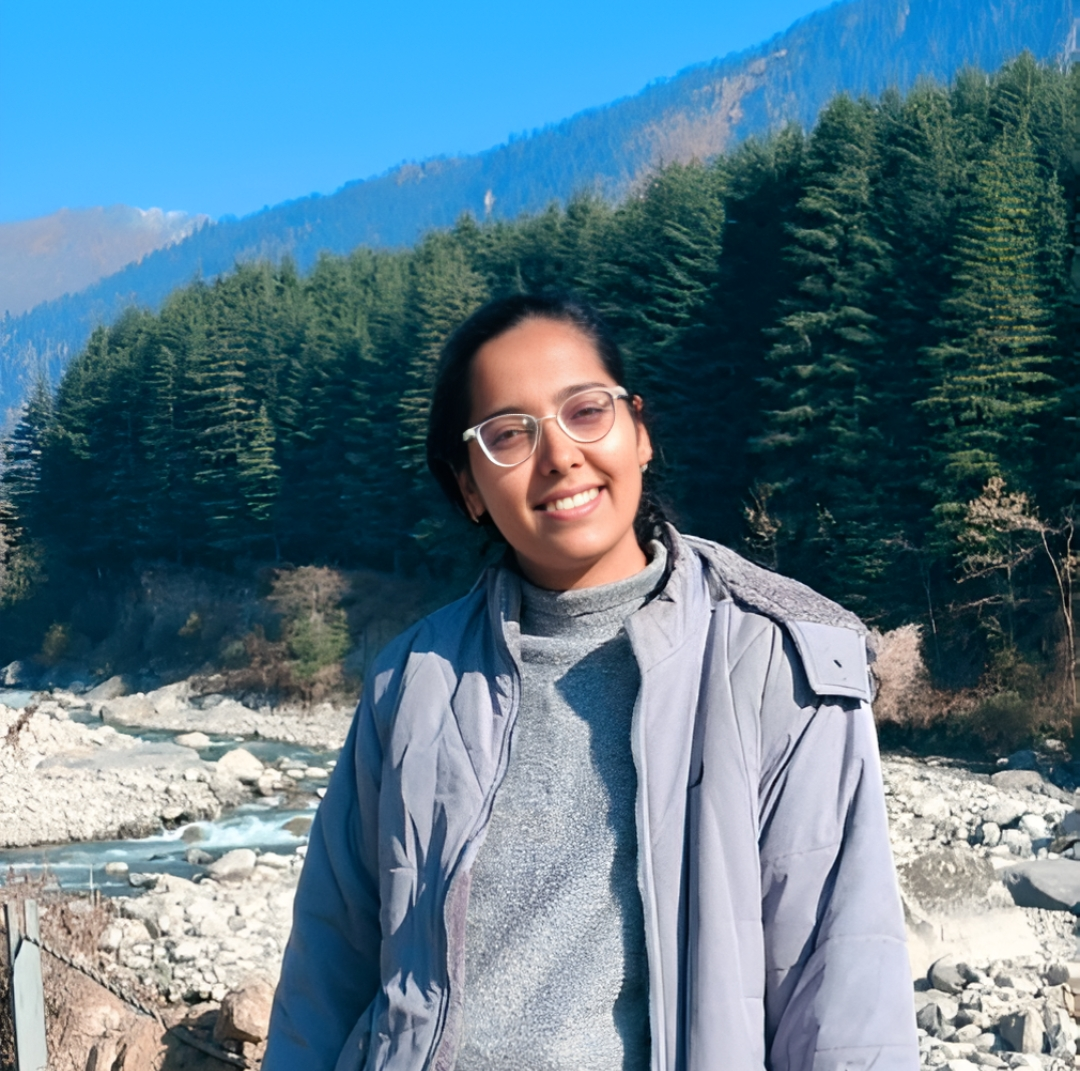
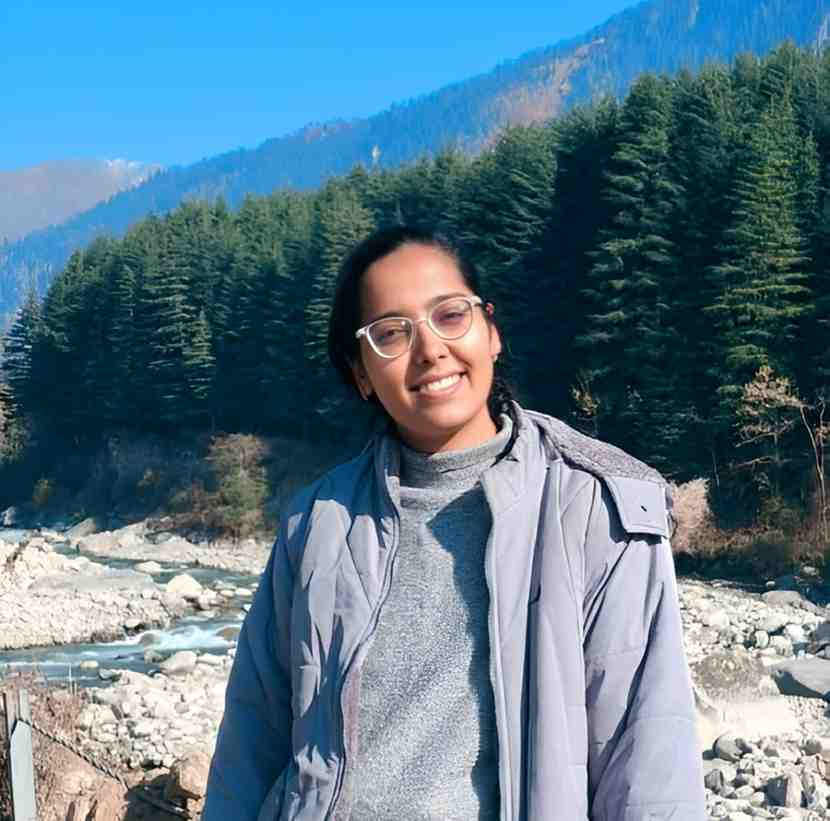
images size decreased

diff --git a/index.html b/index.html
@@ -868,7 +868,7 @@
         <div class="bgrid service-item animate-this">
           <div class="profile-card">
             <div class="profile-img">
-              <img data-src="./images/profile/AnujAgrawal3.jpeg" style="height: 24rem; width: 24.5rem; object-fit: cover"
+              <img data-src="./images/profile/AnujAgrawal3 (1).jpeg" style="height: 24rem; width: 24.5rem; object-fit: cover"
                 alt="Team Image" class="lazyload" />
             </div>
             <div class="profile-content">
@@ -890,7 +890,7 @@
         <div class="bgrid service-item animate-this">
           <div class="profile-card">
             <div class="profile-img">
-              <img data-src="./images/profile/AryanM.jpeg" style="height: 24rem; width: 24rem; object-fit: cover"
+              <img data-src="./images/profile/AryanM (1).jpeg" style="height: 24rem; width: 24rem; object-fit: cover"
                 alt="Team Image" class="lazyload" />
             </div>
             <div class="profile-content">
@@ -929,7 +929,7 @@
         <div class="bgrid service-item animate-this">
           <div class="profile-card">
             <div class="profile-img">
-              <img data-src="./images/profile/KalpakAgrawal4.png" style="height: 25rem; width: 24rem; object-fit: cover"
+              <img data-src="./images/profile/Kalpak_Agrawal (2).webp" style="height: 25rem; width: 24rem; object-fit: cover"
                 alt="Team Image" class="lazyload" />
             </div>
             <!-- <div class="profile-img">
@@ -971,7 +971,7 @@
         <div class="bgrid service-item animate-this" style="margin-bottom: 27px">
           <div class="profile-card">
             <div class="profile-img">
-              <img data-src="./images/profile/Himanshu_Events.jpg" style="height: 25rem; width: 24rem; object-fit: cover"
+              <img data-src="./images/profile/Himanshu_Events (1).jpg" style="height: 25rem; width: 24rem; object-fit: cover"
                 alt="Team Image" class="lazyload" />
             </div>
             <div class="profile-content">
@@ -1002,7 +1002,7 @@
         <div class="bgrid service-item animate-this">
           <div class="profile-card">
             <div class="profile-img">
-              <img src="./images/profile/GauravTir.jpeg" style="height: 25rem; width: 24rem; object-fit: cover"
+              <img src="./images/profile/GauravTir (1).jpeg" style="height: 25rem; width: 24rem; object-fit: cover"
                 alt="Team Image" class="lazyload" />
             </div>
             <div class="profile-content">
@@ -1045,7 +1045,7 @@
         <div class="bgrid service-item animate-this" style="margin-bottom: 27px">
           <div class="profile-card">
             <div class="profile-img">
-              <img data-src="./images/profile/AakritiPrajapati.jpg" style="height: 25rem; width: 24rem; object-fit: cover"
+              <img data-src="./images/profile/AakritiPrajapati (1).jpg" style="height: 25rem; width: 24rem; object-fit: cover"
                 alt="Team Image" class="lazyload" />
             </div>
             <div class="profile-content">
@@ -1070,7 +1070,7 @@
         <div class="bgrid service-item animate-this">
           <div class="profile-card">
             <div class="profile-img">
-              <img data-src="./images/profile/LakshBansal2.png" style="height: 25rem; width: 24rem; object-fit: cover"
+              <img data-src="./images/profile/LakshBansal (1).jpg" style="height: 25rem; width: 24rem; object-fit: cover"
                 alt="Team Image" class="lazyload" />
             </div>
             <div class="profile-content">
@@ -1090,7 +1090,7 @@
         <div class="bgrid service-item animate-this">
           <div class="profile-card">
             <div class="profile-img">
-              <img data-src="./images/profile/IshantAgrawal.jpg" style="height: 25rem; width: 24rem; object-fit: cover"
+              <img data-src="./images/profile/IshantAgrawal (1).jpg" style="height: 25rem; width: 24rem; object-fit: cover"
                 alt="Team Image" class="lazyload" />
             </div>
             <div class="profile-content">
@@ -1158,7 +1158,7 @@
         <div class="bgrid service-item animate-this">
           <div class="profile-card">
             <div class="profile-img">
-              <img data-src="./images/profile/AaliyahA.jpeg" style="height: 25rem; width: 24rem; object-fit: cover"
+              <img data-src="./images/profile/AaliyahA (1).jpeg" style="height: 25rem; width: 24rem; object-fit: cover"
                 alt="Team Image" class="lazyload" />
             </div>
             <div class="profile-content">
@@ -1181,7 +1181,7 @@
         <div class="bgrid service-item animate-this">
           <div class="profile-card">
             <div class="profile-img">
-              <img data-src="./images/profile/SanviJain.jpeg" style="height: 25rem; width: 24rem; object-fit: cover"
+              <img data-src="./images/profile/SanviJain (1).jpeg" style="height: 25rem; width: 24rem; object-fit: cover"
                 alt="Team Image" class="lazyload" />
             </div>
             <div class="profile-content">
@@ -1212,7 +1212,7 @@
         <div class="bgrid service-item animate-this">
           <div class="profile-card">
             <div class="profile-img">
-              <img data-src="./images/profile/SanyamJain.jpg" style="height: 25rem; width: 24rem; object-fit: cover"
+              <img data-src="./images/profile/SanyamJain (1).jpg" style="height: 25rem; width: 24rem; object-fit: cover"
                 alt="Team Image" class="lazyload" />
             </div>
             <div class="profile-content">
@@ -1233,7 +1233,7 @@
         <div class="bgrid service-item animate-this">
           <div class="profile-card">
             <div class="profile-img">
-              <img data-src="./images/profile/Abhay_Saxena2.jpg" style="height: 25rem; width: 24rem; object-fit: cover"
+              <img data-src="./images/profile/Abhay_Saxena2 (1).jpg" style="height: 25rem; width: 24rem; object-fit: cover"
                 alt="Team Image" class="lazyload" />
             </div>
             <div class="profile-content">
